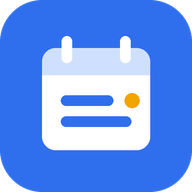
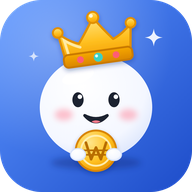
앱 이름을 살림왕으로, 아이콘을 왕관 캐릭터로 바꿈 (v0.2.1)
- 앱·웹 이름, 알림 접근 안내, 방침 페이지의 앱 이름을 살림왕으로 변경
- 런처·웹·마스커블 아이콘을 동전 든 왕관 캐릭터로 교체, 알림 아이콘은 왕관
- 패키지 이름(com.ywjmoney.jangbu)은 그대로 두어 업데이트 설치가 이어지게 함
- versionCode 3 / 0.2.1

Claude-Session: https://claude.ai/code/session_015ATkD6tAvUmyjRNZpdpKpD

diff --git a/src/app.js b/src/app.js
@@ -6,7 +6,7 @@ import { upcoming, summary, categoryTotals, cardPeriod, STATUS_LABEL } from './e
 import { todayStr, fmtMD, fmtMDW, diffDays, parts, ymd, daysInMonth } from './dates.js';
 import { toCSV, backupJSON, readBackup, toICS, encryptBackup, decryptBackup, isEncryptedBackup } from './io.js';
 
-export const APP_VERSION = '0.2.0';
+export const APP_VERSION = '0.2.1';
 
 const store = createStore();
 // 안드로이드 앱 안에서 실행 중이면 네이티브 기능(파일 저장·예약 알림·클립보드)을 쓴다.
@@ -308,7 +308,7 @@ ${autoSettings()}
   </div>
   <div class="section-title">정보</div>
   <div class="card" style="font-size:.9em">
-    <p>자동 장부 v${APP_VERSION} · 기록 ${store.txs.filter((t) => !t.deleted).length}건 · 학습된 분류 규칙 ${Object.keys(store.state.rules).length}개</p>
+    <p>살림왕 v${APP_VERSION} · 기록 ${store.txs.filter((t) => !t.deleted).length}건 · 학습된 분류 규칙 ${Object.keys(store.state.rules).length}개</p>
     <p style="margin-top:6px">광고·분석 도구가 없고, 입력한 데이터를 외부로 보내지 않습니다. 문자·알림 원문은 저장하지 않고 읽어낸 결과만 남겨요. 못 읽은 알림만 고칠 수 있게 이 기기에 30일 동안 보관해요.</p>
     <p style="margin-top:6px"><a href="privacy.html">개인정보처리방침</a></p>
   </div>`;
@@ -354,7 +354,7 @@ function pasteForm(text = '') {
   return `<form data-form="paste">
     <label class="field"><span>카드·은행 문자나 알림을 붙여넣으세요 (여러 건 가능)</span>
     <textarea name="text" placeholder="[Web발신]\n신한카드(1234)승인 홍*동 12,500원(일시불)10/15 13:20 스타벅스 누적1,234,567원" ${text ? '' : 'autofocus'}>${esc(text)}</textarea>
-    <div class="hint">문자 앱에서 메시지를 길게 눌러 복사하거나, Android에서는 공유하기 → 자동 장부를 고르세요. 원문은 저장하지 않아요.</div></label>
+    <div class="hint">문자 앱에서 메시지를 길게 눌러 복사하거나, Android에서는 공유하기 → 살림왕을 고르세요. 원문은 저장하지 않아요.</div></label>
     <div class="btns"><button type="button" class="btn" data-action="paste-clipboard">클립보드에서 가져오기</button><button class="btn primary" type="submit">읽기</button></div>
   </form><div id="paste-preview"></div>`;
 }
@@ -476,7 +476,7 @@ function captureIntro() {
       <li>못 읽은 알림만 직접 고칠 수 있게 이 기기에 30일 보관해요.</li>
       <li>어떤 내용도 서버로 보내지 않아요.</li>
     </ul>
-    <p style="margin-top:10px;font-size:.92em">다음 화면에서 <b>자동 장부</b>를 찾아 "알림 접근 허용"을 켜 주세요. 언제든 같은 곳에서 끌 수 있어요.</p>
+    <p style="margin-top:10px;font-size:.92em">다음 화면에서 <b>살림왕</b>을 찾아 "알림 접근 허용"을 켜 주세요. 언제든 같은 곳에서 끌 수 있어요.</p>
     <div class="btns"><button class="btn primary" data-action="capture-enable">허용하러 가기</button><button class="btn" data-action="close-sheet">나중에</button></div>`;
 }
 
@@ -630,7 +630,7 @@ const toNum = (v) => {
 };
 
 // ── 렌더 ─────────────────────────────────────────────────────
-const TITLES = { home: '자동 장부', history: '내역', upcoming: '곧 나갈 돈', settings: '설정' };
+const TITLES = { home: '살림왕', history: '내역', upcoming: '곧 나갈 돈', settings: '설정' };
 function render() {
   document.getElementById('title').textContent = TITLES[tab];
   document.getElementById('subtitle').textContent = tab === 'home' ? `${fmtMDW(today())} · 광고 없는 가계부` : '';
@@ -733,7 +733,7 @@ document.addEventListener('click', async (e) => {
     native?.openCaptureSettings();
   } else if (a === 'battery') {
     native?.openBatterySettings();
-    toast('목록에서 자동 장부를 찾아 "최적화 안 함"으로 바꿔 주세요');
+    toast('목록에서 살림왕을 찾아 "최적화 안 함"으로 바꿔 주세요');
   } else if (a === 'review-all') {
     store.updateTxs(store.txs.filter((x) => !x.deleted && x.review).map((x) => x.id), { review: false });
     toast('확인했어요');
@@ -749,9 +749,9 @@ document.addEventListener('click', async (e) => {
   } else if (a === 'inbox-report') {
     const x = st.inbox.find((i) => i.id === id);
     if (!x) return;
-    const masked = `[자동 장부 v${APP_VERSION} 못 읽은 형식]\n보낸 앱: ${x.app}\n${maskForReport(x.text)}`;
+    const masked = `[살림왕 v${APP_VERSION} 못 읽은 형식]\n보낸 앱: ${x.app}\n${maskForReport(x.text)}`;
     if (confirm(`숫자와 이름을 가린 아래 내용을 보냅니다. 보내기 전에 받는 곳을 고를 수 있어요.\n\n${masked}`)) {
-      if (native?.shareText) native.shareText('자동 장부 문자 형식 제보', masked);
+      if (native?.shareText) native.shareText('살림왕 문자 형식 제보', masked);
       else navigator.clipboard?.writeText(masked).then(() => toast('복사했어요'));
     }
   } else if (a === 'export-ics') {

diff --git a/privacy.html b/privacy.html
@@ -3,7 +3,7 @@
   <head>
     <meta charset="utf-8" />
     <meta name="viewport" content="width=device-width, initial-scale=1" />
-    <title>개인정보처리방침 · 자동 장부</title>
+    <title>개인정보처리방침 · 살림왕</title>
     <link rel="stylesheet" href="css/app.css" />
     <style>
       main { padding-top: 16px; padding-bottom: 40px; }
@@ -17,10 +17,10 @@
   <body>
     <main>
       <h1>개인정보처리방침</h1>
-      <p style="color: var(--text-2)">자동 장부 v0.2 · 시행일 2026-11-01 (초안, 출시 전 법률 검토 예정)</p>
+      <p style="color: var(--text-2)">살림왕 v0.2 · 시행일 2026-11-01 (초안, 출시 전 법률 검토 예정)</p>
 
       <h2>1. 한 줄 요약</h2>
-      <p>자동 장부는 서버가 없는 앱입니다. 입력하신 기록은 사용하시는 기기 안에만 저장되며, 운영자를 포함한 누구에게도 전송되지 않습니다.</p>
+      <p>살림왕은 서버가 없는 앱입니다. 입력하신 기록은 사용하시는 기기 안에만 저장되며, 운영자를 포함한 누구에게도 전송되지 않습니다.</p>
 
       <h2>2. 처리하는 정보</h2>
       <ul>
@@ -62,7 +62,7 @@
       <p>현재 버전은 회원가입이 없으며, 계정 기능이 생기는 버전부터 만 14세 미만의 가입을 제한합니다.</p>
 
       <h2>8. 문의</h2>
-      <p>개발자: YWJMoney. 개인정보 관련 문의는 Google Play 스토어의 자동 장부 앱 페이지에 표시된 개발자 이메일로 보내 주세요.</p>
+      <p>개발자: YWJMoney. 개인정보 관련 문의는 Google Play 스토어의 살림왕 앱 페이지에 표시된 개발자 이메일로 보내 주세요.</p>
 
       <p style="margin-top: 24px"><a href="index.html">← 앱으로 돌아가기</a></p>
     </main>

diff --git a/index.html b/index.html
@@ -3,14 +3,14 @@
   <head>
     <meta charset="utf-8" />
     <meta name="viewport" content="width=device-width, initial-scale=1, viewport-fit=cover" />
-    <title>자동 장부</title>
+    <title>살림왕</title>
     <meta name="description" content="카드 문자를 붙여넣으면 장부가 되고, 구독·고정비·카드 결제일을 미리 알려주는 무광고 가계부" />
     <meta name="theme-color" content="#2f6fed" />
     <link rel="manifest" href="manifest.webmanifest" />
     <link rel="icon" href="icons/icon.svg" type="image/svg+xml" />
     <link rel="apple-touch-icon" href="icons/icon-192.png" />
     <meta name="apple-mobile-web-app-capable" content="yes" />
-    <meta name="apple-mobile-web-app-title" content="자동 장부" />
+    <meta name="apple-mobile-web-app-title" content="살림왕" />
     <link rel="stylesheet" href="css/app.css" />
     <script>
       // 테마·글자 크기를 그리기 전에 적용해 깜빡임을 막는다.
@@ -24,7 +24,7 @@
   <body>
     <header class="topbar">
       <div>
-        <h1 id="title">자동 장부</h1>
+        <h1 id="title">살림왕</h1>
         <div class="sub" id="subtitle"></div>
       </div>
     </header>

diff --git a/src/io.js b/src/io.js
@@ -102,7 +102,7 @@ export function toICS(items, now = new Date()) {
       `DTSTART;VALUE=DATE:${icsDate(it.date)}`,
       `DTEND;VALUE=DATE:${icsDate(addDays(it.date, 1))}`,
       `SUMMARY:${icsText(`${it.title} ${won}${it.label === '예상' ? ' (예상)' : ''}`)}`,
-      `DESCRIPTION:${icsText('자동 장부 앱에서 내보낸 예정 지출입니다.')}`,
+      `DESCRIPTION:${icsText('살림왕 앱에서 내보낸 예정 지출입니다.')}`,
       'BEGIN:VALARM', 'ACTION:DISPLAY', `DESCRIPTION:${icsText(`3일 뒤 ${it.title} ${won}`)}`, 'TRIGGER:-P3DT0H0M0S', 'END:VALARM',
       'BEGIN:VALARM', 'ACTION:DISPLAY', `DESCRIPTION:${icsText(`오늘 ${it.title} ${won}`)}`, 'TRIGGER:PT9H', 'END:VALARM',
       'END:VEVENT',

diff --git a/sw.js b/sw.js
@@ -1,5 +1,5 @@
 // 오프라인 실행용 서비스 워커. 앱 파일만 캐시하고, 사용자 데이터는 다루지 않는다.
-const VERSION = 'jangbu-v0.2.0';
+const VERSION = 'jangbu-v0.2.1';
 const SHELL = [
   './',
   './index.html',

diff --git a/docs/PRIVACY.md b/docs/PRIVACY.md
@@ -1,12 +1,12 @@
-# 자동 장부 개인정보처리방침
+# 살림왕 개인정보처리방침
 
 > 공개 주소: https://ywjmoney.github.io/-/privacy.html (GitHub Pages가 main의 privacy.html을 보여 줍니다. 이 파일과 privacy.html을 함께 고칩니다)
 
-자동 장부 v0.2 · 시행일 2026-11-01 · 개발자 YWJMoney
+살림왕 v0.2 · 시행일 2026-11-01 · 개발자 YWJMoney
 
 ## 1. 한 줄 요약
 
-자동 장부는 서버가 없는 앱입니다. 입력하신 기록은 사용하시는 기기 안에만 저장되며, 운영자를 포함한 누구에게도 전송되지 않습니다.
+살림왕은 서버가 없는 앱입니다. 입력하신 기록은 사용하시는 기기 안에만 저장되며, 운영자를 포함한 누구에게도 전송되지 않습니다.
 
 ## 2. 처리하는 정보
 
@@ -54,7 +54,7 @@
 ## 8. 문의
 
 개발자: YWJMoney
-개인정보 관련 문의는 Google Play 스토어의 자동 장부 앱 페이지에 표시된 개발자 이메일로 보내 주세요.
+개인정보 관련 문의는 Google Play 스토어의 살림왕 앱 페이지에 표시된 개발자 이메일로 보내 주세요.
 
 ---
 

diff --git a/README.md b/README.md
@@ -1,10 +1,12 @@
-# 자동 장부
+# 살림왕
+
+(이전 이름: 자동 장부)
 
 카드·은행 문자를 붙여넣으면 장부가 되고, 구독·고정비·공과금·카드 결제일을 **"곧 나갈 돈"** 한곳에서 미리 알려주는 무광고 가계부입니다. 서버가 없고 모든 데이터는 기기 안에만 저장됩니다.
 
 **Android 전용 앱**입니다(iOS는 보류). `android/` 의 네이티브 앱이 같은 화면 코드를 앱 안에 넣어 오프라인으로 실행하고, 결제 예정 알림·파일 저장·공유하기 받기를 Android 기능으로 처리합니다.
 
-- 개발계획서: [자동 장부 앱 개발계획서](https://claude.ai/code/artifact/d3766d1b-f012-4ec6-b2cd-31995eb99066)
+- 개발계획서: [개발계획서(옛 이름: 자동 장부)](https://claude.ai/code/artifact/d3766d1b-f012-4ec6-b2cd-31995eb99066)
 - 버전별 범위: [docs/ROADMAP.md](docs/ROADMAP.md)
 - 개인정보처리방침: [공개 페이지](https://ywjmoney.github.io/-/privacy.html) (원본 [docs/PRIVACY.md](docs/PRIVACY.md))
 - 빌드와 Play 스토어 게시: [docs/PUBLISHING.md](docs/PUBLISHING.md)

diff --git a/docs/PLAY_INTERNAL_TEST.md b/docs/PLAY_INTERNAL_TEST.md
@@ -23,7 +23,7 @@
 ## 3. 앱 만들기 (처음 한 번)
 
 Play Console → **앱 만들기**
-- 앱 이름: 자동 장부 / 기본 언어: 한국어 / 앱 또는 게임: 앱 / 무료 또는 유료: 무료
+- 앱 이름: 살림왕 / 기본 언어: 한국어 / 앱 또는 게임: 앱 / 무료 또는 유료: 무료
 - 개발자 프로그램 정책, 미국 수출 법규 선언에 체크 → 앱 만들기
 
 ## 4. 내부 테스트 올리기
